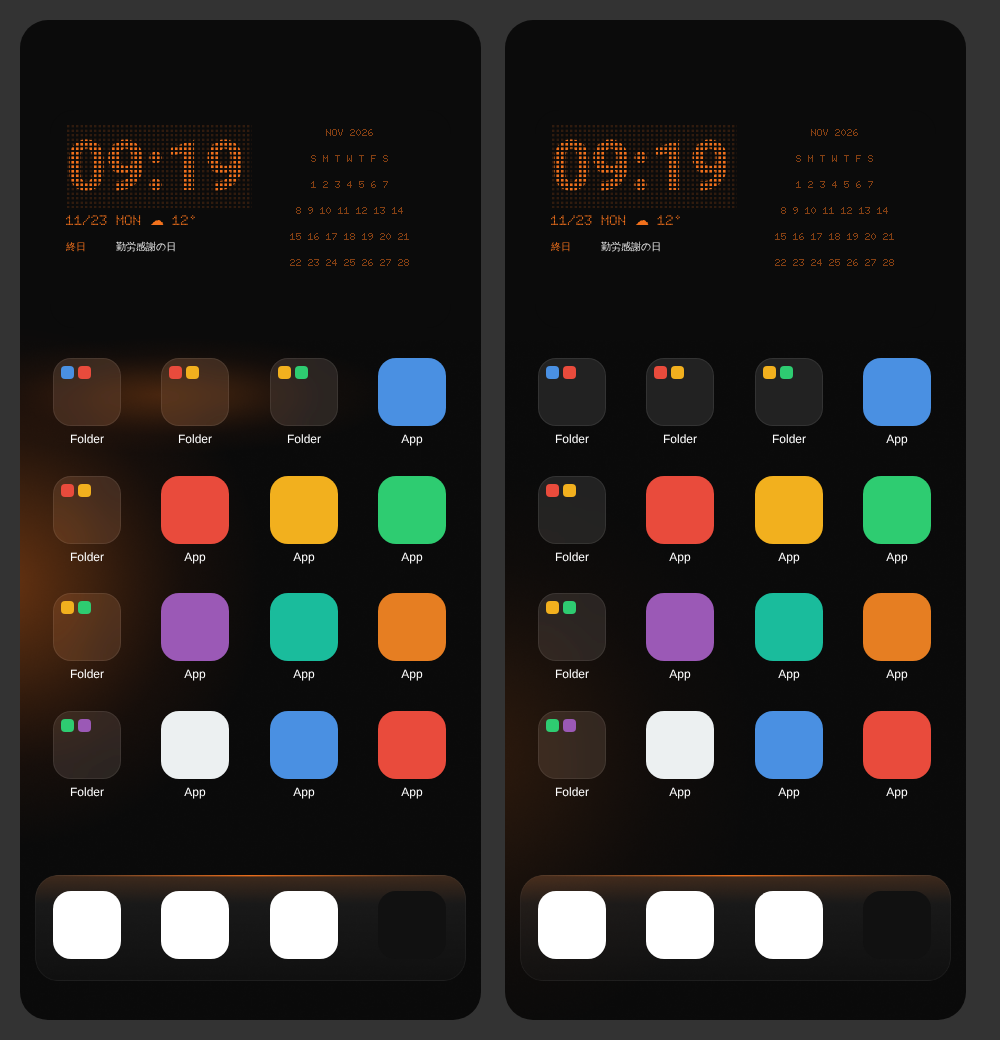
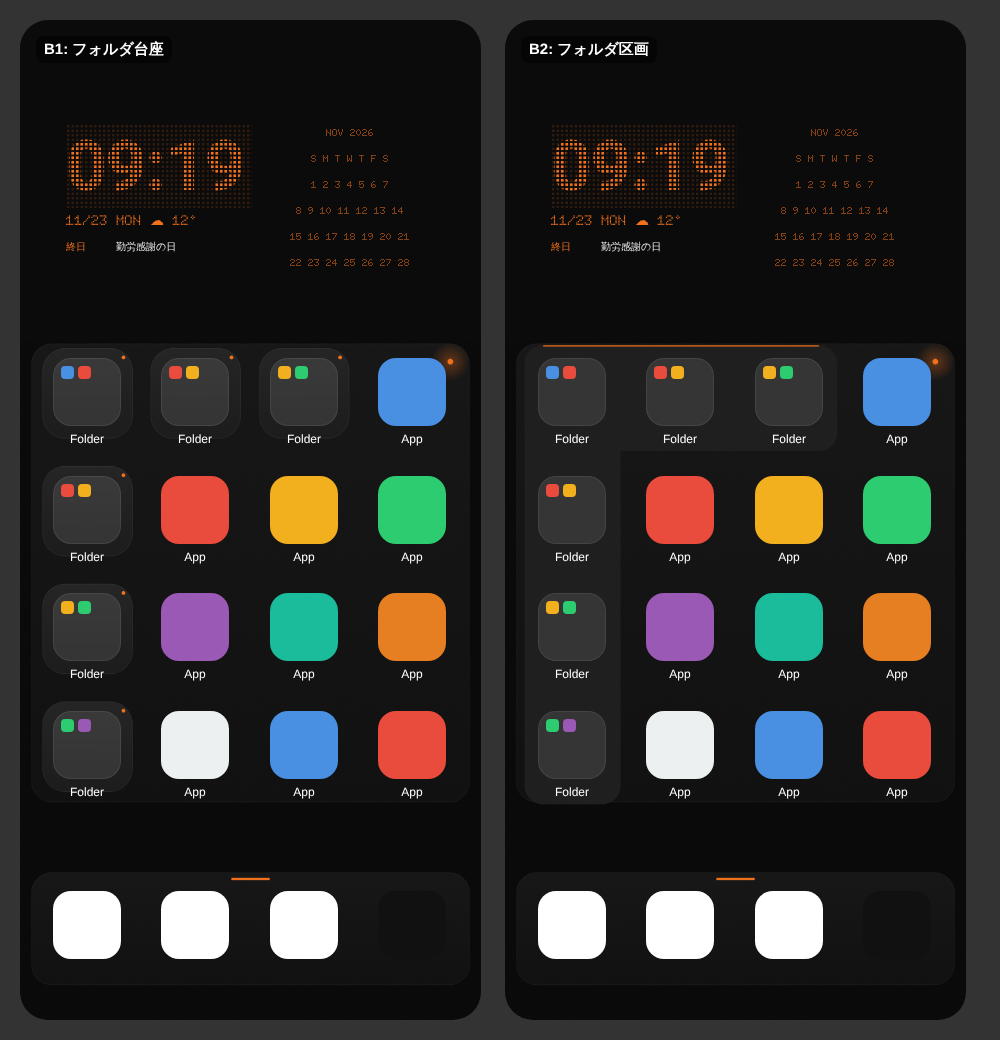
docs: 壁紙をMonolith(B案)に刷新、フォルダ位置を強調(区画版/台座版)
Claude-Session: https://claude.ai/code/session_0179icErXwPdFdgioC6p5f9V

diff --git a/docs/wallpapers/README.md b/docs/wallpapers/README.md
@@ -1,15 +1,16 @@
-# こよみ 壁紙（黒 × オレンジ / Ember）
+# こよみ 壁紙（Monolith / 黒 × オレンジ）
 
-「ドット」ウィジェットと一体に見えるよう設計した、黒基調・オレンジ差し色の壁紙です。1440×3120（19.5:9）。
+「ドット」ウィジェットと合わせる、道具のようなミニマル壁紙。1440×3120（19.5:9）。
 
-- 背景の黒は **#0B0B0B = ウィジェット(ダーク)の背景色と同じ**。ウィジェットを不透明(100%)にすると枠が消え、時計だけが浮かびます
-- 左下から差し込むオレンジの光が、半透明フォルダ(左列+上段)に温かい色を透かしてコントラストを付けます
-- ドックの位置に、オレンジのヘアライン付きのガラス調の棚
+- 背景 #0B0B0B = 「ドット」ウィジェット(ダーク)の背景色。不透明(100%)にすると枠が消えます
+- アイコン列とドックの後ろにグラファイトのスラブ。オレンジはランプ・ドックのハンドルなど最小限
+- フォルダの位置(左列+上段)を強調
 
 | ファイル | 内容 |
 |---|---|
-| `koyomi-ember-black.png` | フォルダ位置(左列+上段)に光を当てた版 |
-| `koyomi-ember-black-plain.png` | 光を下の方に控えめにした版(アイコン配置を変えた場合用) |
-| `preview.png` | ホーム画面のイメージ(左: 通常版 / 右: プレーン版) |
+| `koyomi-monolith.png` | フォルダ区画をL字の一段明るいモジュールで強調(上辺にオレンジのライン) |
+| `koyomi-monolith-sockets.png` | フォルダごとに台座+小さなオレンジのランプで強調 |
+| `preview.png` | ホーム画面のイメージ(左: 台座 / 右: 区画) |
 
-おすすめ設定: 「ドット」ウィジェット = テーマ「ダーク」・透明度 **100%(不透明)**。
+フォルダの位置は現在の配置(左列4つ+上段の左から3つ)に合わせています。
+おすすめ: 「ドット」= テーマ「ダーク」・透明度100%。
